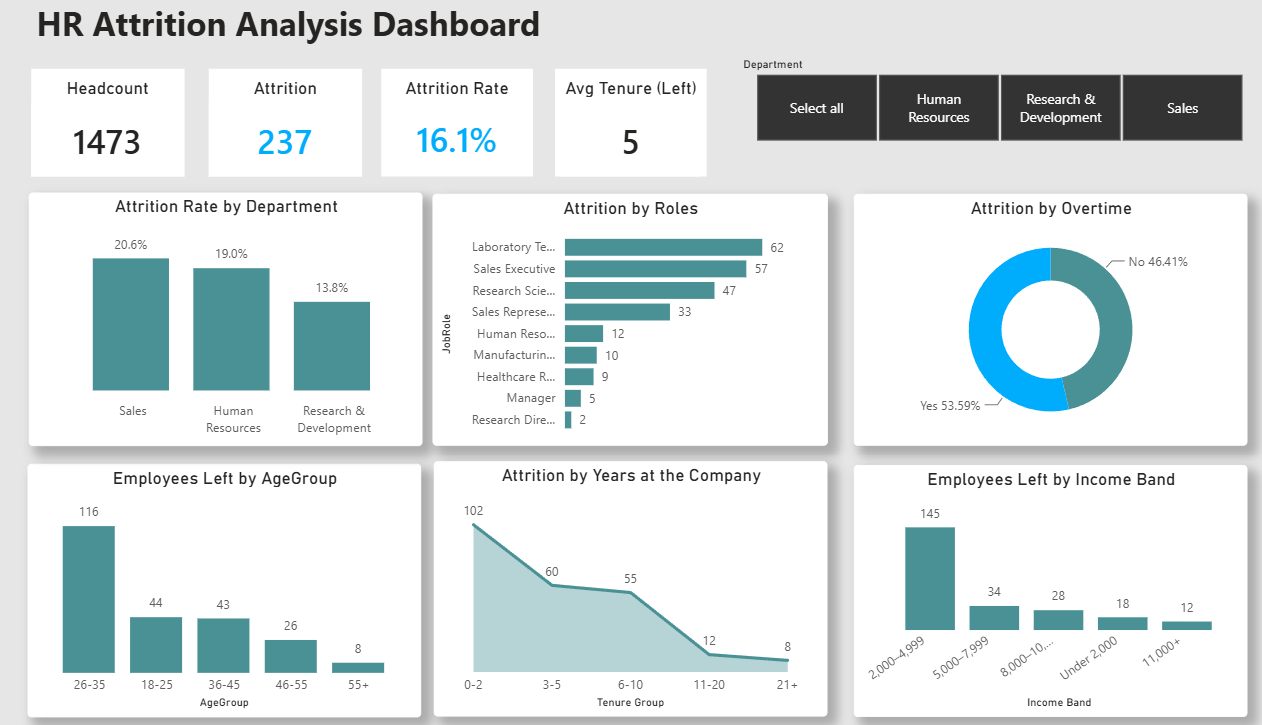
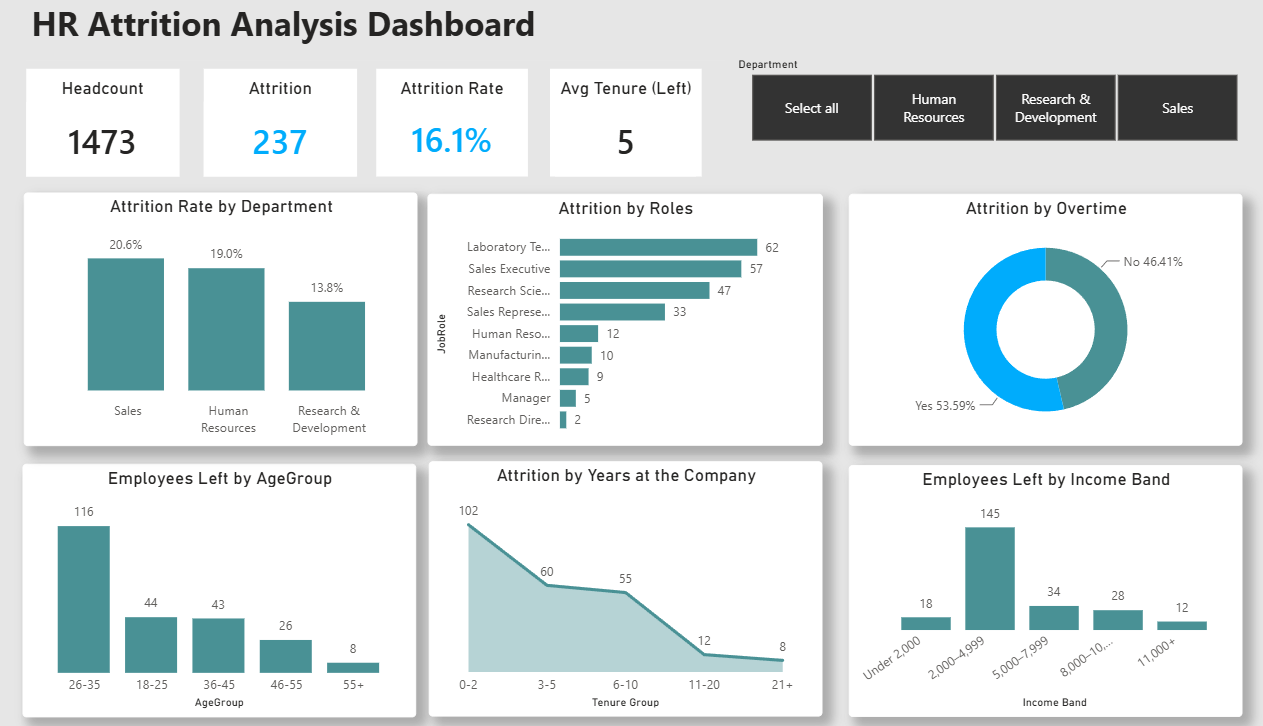
.

diff --git a/work.html b/work.html
@@ -5,7 +5,7 @@
     <meta name="viewport" content="width=device-width, initial-scale=1.0" />
     <meta
       name="description"
-      content="Yulia Hrinenko is a front-end developer from Ukraine, check out her projects and contact her for job inquiries"
+      content="Yulia Hrinenko is a junior data analyst check out her projects and contact her for job inquiries"
     />
     <link rel="stylesheet" href="style.css" />
     <link rel="preconnect" href="https://fonts.googleapis.com" />
@@ -37,7 +37,7 @@
       src="https://kit.fontawesome.com/c474cc9d78.js"
       crossorigin="anonymous"
     ></script>
-    <title>Projects developed by Yulia Hrinenko, front-end developer</title>
+    <title>Projects developed by Yulia Hrinenko</title>
   </head>
   <body>
     <nav class="navbar navbar-expand-lg navbar-light" ;>
@@ -107,11 +107,17 @@
             <h3 class="mb-3" id="weather-app">
               HR Attrition Data Analysis with Python
             </h3>
-            <p class="mb-5"></p>
+            <p class="mb-5">
+              Explored and analysed an employee attrition dataset using Python.
+              Performed data cleaning, handled missing values, conducted
+              exploratory data analysis (EDA), and created visualisations with
+              Matplotlib to identify trends in employee turnover. <br />
+              Technologies: Python, Pandas, Matplotlib, Google Colab
+            </p>
             <div class="d-flex">
               <a
                 href="https://github.com/YuliaGrinenko/HR-Attrition-Data-Analysis-Python"
-                title="Weather Application"
+                title="Python project"
                 class="button-projects mt-0"
                 target="_blank"
                 >View project</a
@@ -122,27 +128,27 @@
         <div class="reveal row mb-5">
           <div class="work-image col-md-5 text-center">
             <img
-              src="/images/Dashboard.png"
+              src="/images/dashboard.png"
               class="img-fluid rounded"
-              alt="Weather App (React)"
+              alt="dashboard"
             />
           </div>
           <div class="col-md-7 project-description">
-            <h3 class="mb-3">HR Attrition Dashboard</h3>
+            <h3 class="mb-3">HR Attrition Dashboard in Power BI</h3>
             <div class="mb-5 description">
               <p>
                 Designed an interactive Power BI dashboard to analyse employee
                 attrition across different departments and demographic groups.
                 Built data models, created DAX measures and KPIs, and developed
                 interactive visualisations to help identify key factors
-                influencing employee turnover. Technologies: Power BI, Power
-                Query, DAX
+                influencing employee turnover. <br />Technologies: Power BI,
+                Power Query
               </p>
             </div>
             <div clas="d-flex">
               <a
                 href="https://github.com/YuliaGrinenko/HR-Attrition-Dashboard-Power-BI"
-                title="Weather Application"
+                title="Power BI Dashboard"
                 class="button-projects mt-0"
                 target="_blank"
                 >View code</a
@@ -152,20 +158,15 @@
         </div>
         <div class="reveal row mb-5">
           <div class="work-image col-md-5 text-center">
-            <img
-              src="/images/maldives-landing.png"
-              class="img-fluid rounded"
-              alt="Landing page"
-              target="_blank"
-            />
+            <img src="#" class="img-fluid rounded" alt="#" target="_blank" />
           </div>
           <div class="col-md-7 project-description">
-            <h3 class="mb-3">Landing Page</h3>
-            <p class="mb-5">ipsum lorem</p>
+            <h3 class="mb-3">SQL Database Project</h3>
+            <p class="mb-5">Coming soon</p>
             <div class="d-flex">
               <a
-                href="https://github.com/YuliaGrinenko/landing-page-maldives"
-                title="Weather Application"
+                href="#"
+                title="SQL"
                 class="button-projects mt-0"
                 target="_blank"
                 >View code</a

diff --git a/index.html b/index.html
@@ -5,7 +5,7 @@
     <meta name="viewport" content="width=device-width, initial-scale=1.0" />
     <meta
       name="description"
-      content="Yulia Hrinenko is a front-end developer from Ukraine, check out her projects and contact her for job inquiries"
+      content="Yuliia Hrinenko is a junior data analyst check out her projects and contact her for job inquiries"
     />
     <link rel="stylesheet" href="style.css" />
     <link rel="preconnect" href="https://fonts.googleapis.com" />
@@ -93,9 +93,10 @@
     </nav>
     <div class="hero text-center">
       <h2 class="reveal">Hi, my name is</h2>
-      <h1 class="reveal delay-1 mb-4 fw-bold">Yulia Hrinenko</h1>
+      <h1 class="reveal delay-1 mb-4 fw-bold">Yuliia Hrinenko</h1>
       <h3 class="reveal delay-2 mb-5 fw-light">
-        Junior Data Analyst | Based in the UK
+        Junior Data Analyst | Data Technician <br /><br />
+        Excel | Power BI | Tableau | SQL | Python | MS Azure
       </h3>
       <div class="my-5 reveal delay-3">
         <a href="/index.html#contacts" class="button-custom text-light"
@@ -134,28 +135,28 @@
             <div>
               <h3 class="mt-4">
                 <a
-                  href="#"
+                  href="/work.html"
                   title="HR Attrition Data Analysis (Python)"
                   target="_blank"
                   class="project-link"
                   >HR Attrition Analysis</a
                 >
               </h3>
-              <p class="fw-light">Pythont</p>
+              <p class="fw-light">Python</p>
             </div>
           </div>
           <div class="col-md-4 mb-3">
             <div class="project-container">
               <img
-                src="/images/Dashboard.png"
+                src="/images/dashboard.png"
                 class="project-image img-fluid rounded"
-                alt="Landing page"
+                alt="Dashboard"
               />
             </div>
             <div>
               <h3 class="mt-4">
                 <a
-                  href="#"
+                  href="/work.html"
                   title="HR Attrition Dashboard"
                   target="_blank"
                   class="project-link"
@@ -168,28 +169,24 @@
           </div>
           <div class="col-md-4 mb-3">
             <div class="project-container">
-              <img
-                src="/images/react-weather-app.png"
-                class="project-image img-fluid rounded"
-                alt="Weather App (React)"
-              />
+              <img src="#" class="project-image img-fluid rounded" alt="SQL" />
             </div>
             <div>
               <h3 class="mt-4">
                 <a
-                  href="https://weather-app-react-yulia.netlify.app/"
-                  title="Weather App React"
+                  href="/work.html"
+                  title="SQL"
                   target="_blank"
                   class="project-link"
-                  >Weather App (React)</a
+                  >SQL Database Project</a
                 >
               </h3>
-              <p class="fw-light">Built with React, HTML, CSS.</p>
+              <p class="fw-light">SQL</p>
             </div>
           </div>
         </div>
         <div class="my-5">
-          <a href="/work.html" class="button-projects mb-5">View details → </a>
+          <a href="/work.html" class="button-projects mb-5">View Projects → </a>
         </div>
       </div>
     </div>

diff --git a/reflective-practice.html b/reflective-practice.html
@@ -5,7 +5,7 @@
     <meta name="viewport" content="width=device-width, initial-scale=1.0" />
     <meta
       name="description"
-      content="Yulia Hrinenko is a front-end developer from Ukraine, check out her projects and contact her for job inquiries"
+      content="Yulia Hrinenko is a junior data analyst check out her projects and contact her for job inquiries"
     />
     <link rel="stylesheet" href="style.css" />
     <link rel="preconnect" href="https://fonts.googleapis.com" />